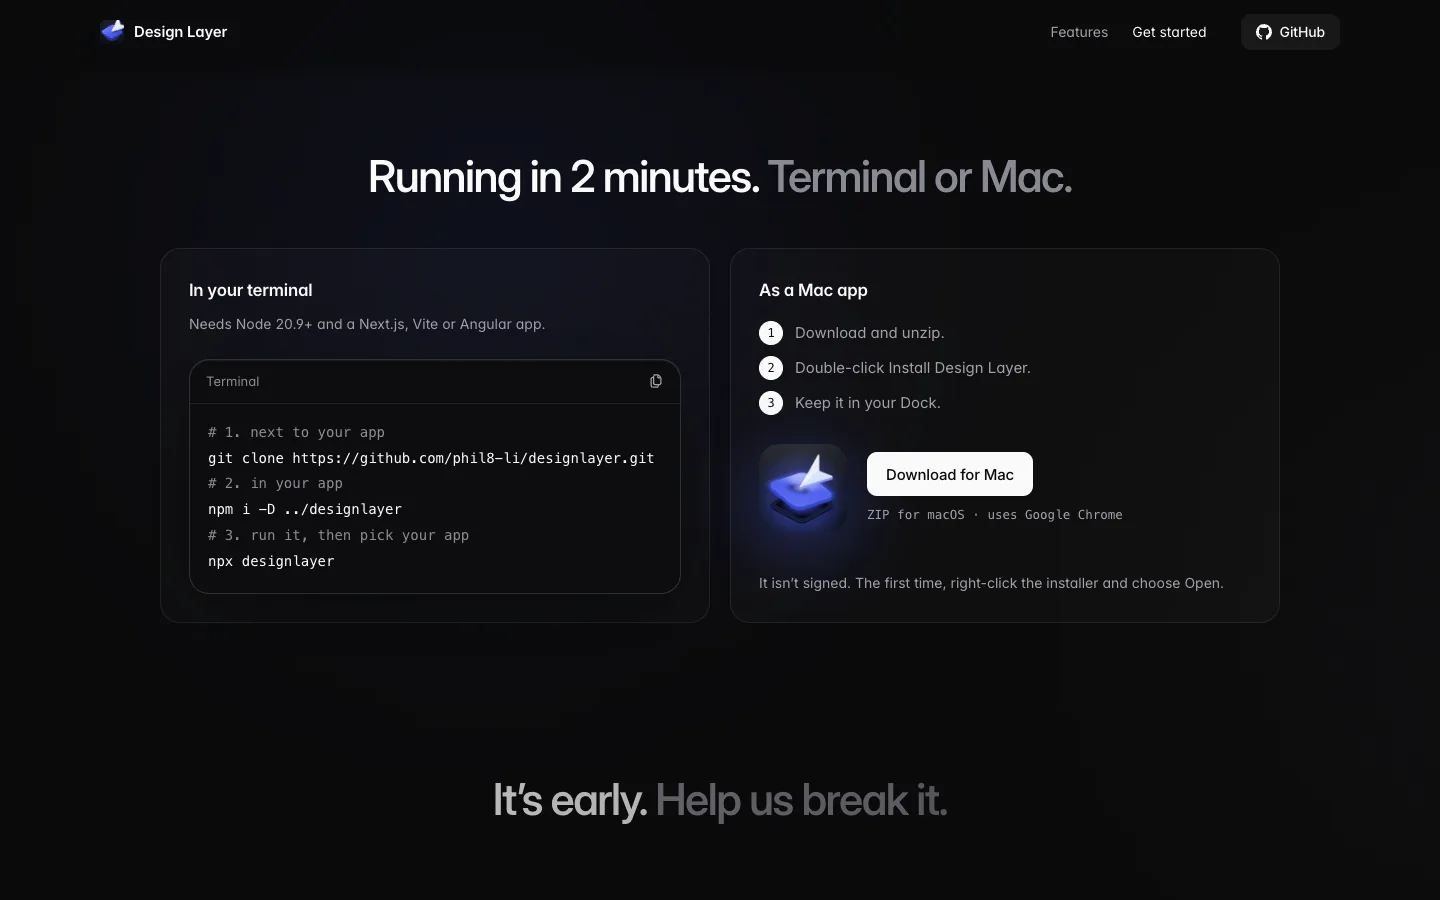
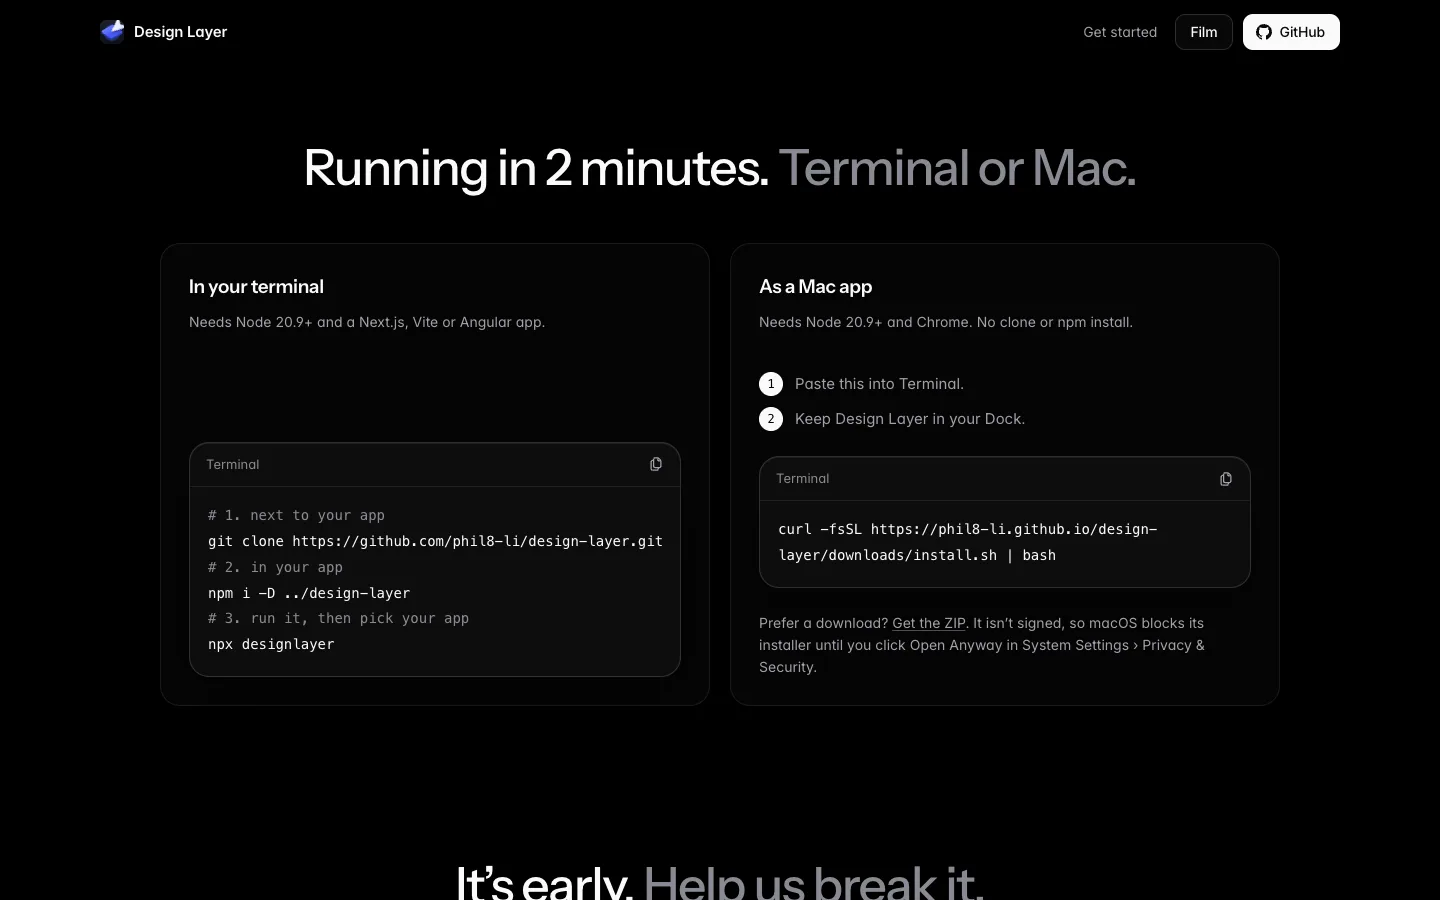
Point every install instruction at the Mac one-liner and the clone's real folder
The README and docs/using.md still described the Mac app only as a
checkout command, and the README's landing-page screenshot showed the old
Download for Mac button with the right-click advice that macOS 15 no longer
honors. Both now show the curl one-liner, and the screenshot is retaken
from the current page.

`git clone .../design-layer.git` creates design-layer/, but the README,
docs/using.md and the landing page told users to run
`npm i -D ../designlayer`, which fails with no such folder.

AI-assisted (CloudCode).

diff --git a/landing/index.html b/landing/index.html
@@ -333,7 +333,7 @@ Loading…</code><code data-agent-close hidden></code></pre>
 <pre class="install-body" tabindex="0" aria-label="Install commands"><code><span class="t-dim"># 1. next to your app</span>
 git clone https://github.com/phil8-li/design-layer.git
 <span class="t-dim"># 2. in your app</span>
-npm i -D ../designlayer
+npm i -D ../design-layer
 <span class="t-dim"># 3. run it, then pick your app</span>
 npx designlayer</code></pre>
             </div>

diff --git a/README.md b/README.md
@@ -23,7 +23,7 @@ Requires Node 20.9+ and a React (Next.js or Vite) or Angular app with a dev scri
 ```sh
 git clone https://github.com/phil8-li/design-layer.git
 cd your-app
-npm i -D ../designlayer
+npm i -D ../design-layer
 npx designlayer
 ```
 
@@ -32,6 +32,12 @@ the project folder, and press **Start editing**. DesignLayer starts the dev serv
 needed and puts the editor around your app.
 
 Already know the port? `npx designlayer --dev --open 3000`.
+
+On a Mac you can install it as a Dock app instead, with Node 20.9+ and Chrome and no clone:
+
+```sh
+curl -fsSL https://phil8-li.github.io/design-layer/downloads/install.sh | bash
+```
 
 ## See it
 
@@ -78,7 +84,7 @@ its own README and deploy workflow.
 
 | Design like Figma, on the real thing | Running in 2 minutes |
 | --- | --- |
-| ![Landing page feature section with tabs for Align, Measure, Responsive and more](docs/images/landing-features.webp) | ![Landing page install section: terminal steps and the Mac app download](docs/images/landing-start.webp) |
+| ![Landing page feature section with tabs for Align, Measure, Responsive and more](docs/images/landing-features.webp) | ![Landing page install section: terminal steps and the Mac install command](docs/images/landing-start.webp) |
 
 ## Contributing
 

diff --git a/docs/using.md b/docs/using.md
@@ -31,7 +31,7 @@ dependency; its prepare script builds the browser bundle on install.
 
    ```sh
    git clone https://github.com/phil8-li/design-layer.git
-   npm i -D ../designlayer
+   npm i -D ../design-layer
    ```
 
    To hand off one immutable artifact instead, run `npm pack` in this package
@@ -290,6 +290,15 @@ moved and resized at once is a single step, not three.
 `desktop/mac` installs DesignLayer as a Mac app, which is a nicer front door
 than a terminal for the way this is actually used: opened in the morning, left
 running, switched between apps all day.
+
+Without a clone, install it with one command. It downloads the package from
+the landing page and runs its installer, and macOS shows no security prompt:
+
+```sh
+curl -fsSL https://phil8-li.github.io/design-layer/downloads/install.sh | bash
+```
+
+From a checkout:
 
 ```sh
 node desktop/mac/install.mjs              # install and open it
